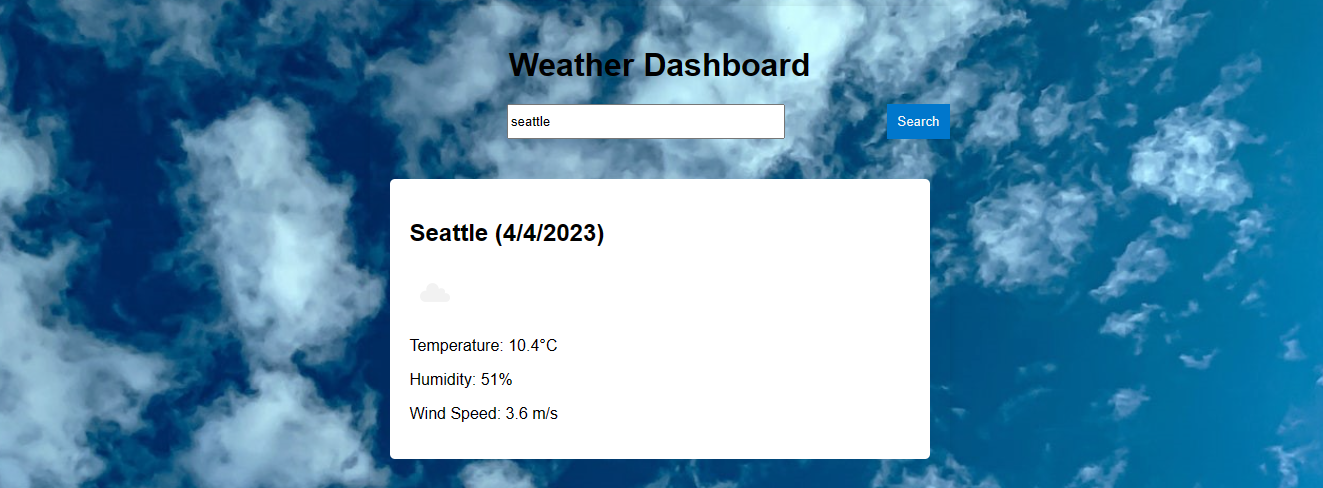
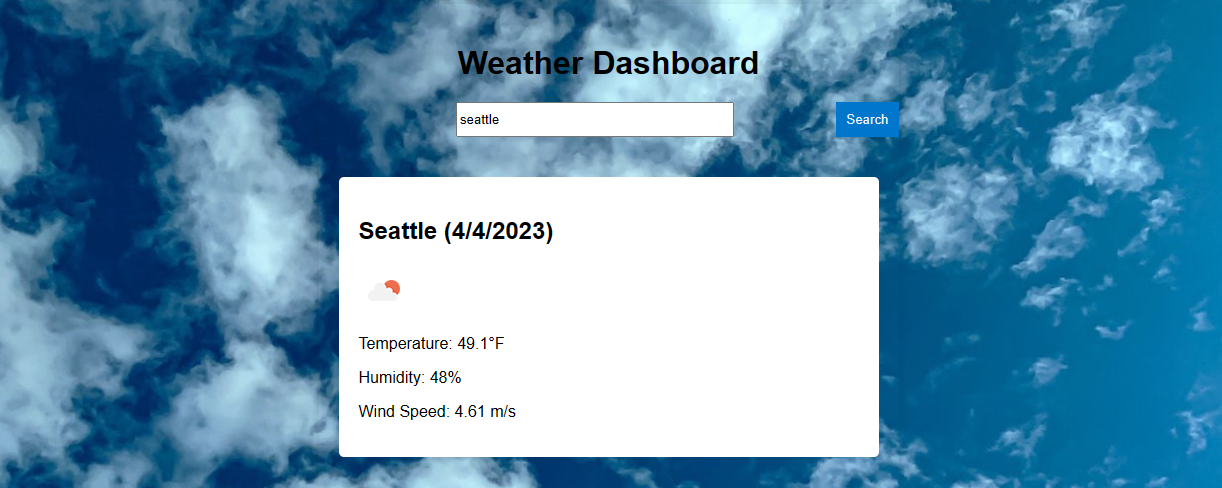
changing celsius to F in script.js

diff --git a/script.js b/script.js
@@ -20,7 +20,7 @@ searchForm.addEventListener('submit', event => {
 //Fetching weather data for a submitted city.
 //Using async/await to wait for fetch request to complete before continuing. 
 async function fetchWeather(city) {
-    const response = await fetch(`https://api.openweathermap.org/data/2.5/weather?q=${city}&appid=${API_KEY}&units=metric`); 
+    const response = await fetch(`https://api.openweathermap.org/data/2.5/weather?q=${city}&appid=${API_KEY}&units=imperial`); 
     const data = await response.json();
     if (data.cod === 200) { //if API request successful (code 200) then executes displayCurrentWeather function. 
         displayCurrentWeather(data);
@@ -35,7 +35,7 @@ function displayCurrentWeather(data) {
     const html = `
         <h2>${data.name} (${new Date().toLocaleDateString()})</h2>
         <img src="${weatherIconUrl}" alt="${data.weather[0].description}" class="weather-icon">
-        <p>Temperature: ${data.main.temp}°C</p>
+        <p>Temperature: ${data.main.temp}°F</p>
         <p>Humidity: ${data.main.humidity}%</p>
         <p>Wind Speed: ${data.wind.speed} m/s</p>
     `;
@@ -45,7 +45,7 @@ function displayCurrentWeather(data) {
 }
 //Fetch the 5-day forecast data for the submitted city.
 async function fetchForecast(city) {
-    const response = await fetch(`https://api.openweathermap.org/data/2.5/forecast?q=${city}&appid=${API_KEY}&units=metric`);
+    const response = await fetch(`https://api.openweathermap.org/data/2.5/forecast?q=${city}&appid=${API_KEY}&units=imperial`);
     const data = await response.json();
     displayForecast(data.list);
 }
@@ -59,7 +59,7 @@ function displayForecast(forecastData) {
             <div>
                 <h3>${new Date(data.dt_txt).toLocaleDateString()}</h3>
                 <img src="${weatherIconUrl}" alt="${data.weather[0].description}" class="weather-icon">
-                <p>Temperature: ${data.main.temp}°C</p>
+                <p>Temperature: ${data.main.temp}°F</p>
                 <p>Wind Speed: ${data.wind.speed} m/s</p>
                 <p>Humidity: ${data.main.humidity}%</p>
             </div>

diff --git a/README.md b/README.md
@@ -37,9 +37,9 @@
 
 - ![Screenshot-1](https://user-images.githubusercontent.com/66844643/229950668-c35549f1-e37d-468a-806a-4ca8bd791ede.png)
 
-- ![Screenshot-2](https://user-images.githubusercontent.com/66844643/229950794-81bc7d80-7665-4079-b8b6-99f713934805.png)
+- ![Screenshot-2](https://user-images.githubusercontent.com/66844643/229962849-9f14785d-285f-4e09-91fa-b91594f62bf9.png)
 
-- ![Screenshot-3](https://user-images.githubusercontent.com/66844643/229950837-a6074fa5-12b3-49d5-b5c0-6f7d4e376a7a.png)
+- ![Screenshot-3](https://user-images.githubusercontent.com/66844643/229962896-992a119e-7389-4edb-871f-335a1752dd9f.png)
 
 
 ## Contributing
